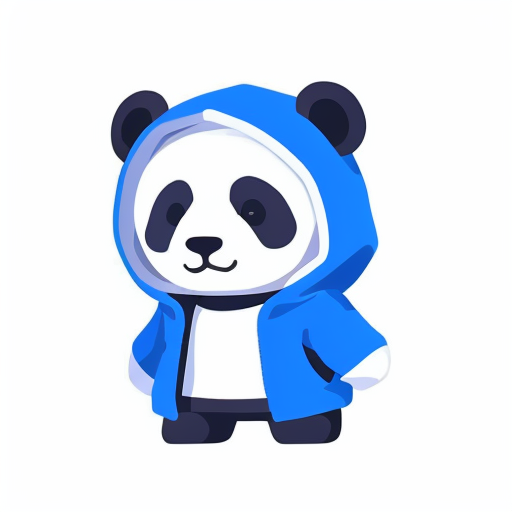
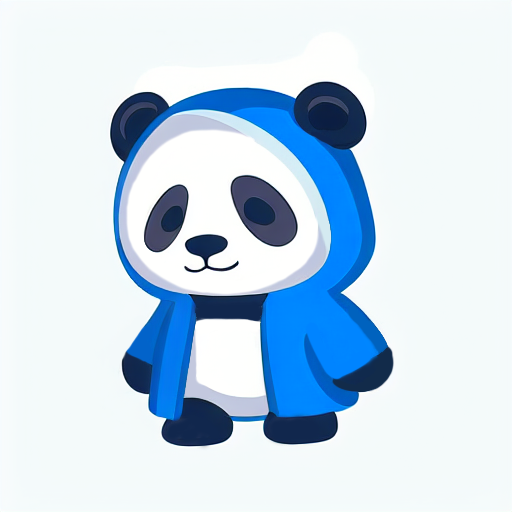
update about & 404 page

Changed region(s): [[0.1875, 0.1562, 0.7812, 0.875]]

diff --git a/source/about/index.md b/source/about/index.md
@@ -6,11 +6,48 @@ layout: "about"
 comments: false
 ---
 
-## 我是貓熊🐼
+{% cq %}
+「不要怕麻煩，害自己迷路了喔」  
+——迷宮飯 EP20
+{% endcq %}
 
-這裡會紀錄貓熊的生活大小事
+## 我是誰 🐼
 
-[Gmail](mailto:wu.messi.wu@gmail.com)
-[Github](https://github.com/moon-jam)
+<i class="fa-solid fa-paw"></i> 我的名字叫巫玟槿，念快一點就變成 Moon Jam 了  
+[<i class="fas fa-envelope"></i> Gmail](mailto:wu.messi.wu@gmail.com)  
+[<i class="fab fa-github"></i> Github](https://github.com/moon-jam)  
+[<i class="fab fa-instagram"></i> Instagram](https://www.instagram.com/mooooonjam/)
 
-<!--more-->
+## 我做些什麼
+
+- 程式語言：Python / C / C++ / C# / Java  
+- 資訊科學：演算法 / 資安 / 機器學習
+- 工業繪圖：Fusion 360 / Inventor  
+- 機器人製作：Arduino / FRC  
+- 運動：跑步 / 跳繩  
+- 投資：技術分析 (SMC)  
+- 其他：讀小說 / 看動畫 / 玩遊戲
+
+歡迎大家來跟我交朋友～
+
+## 做過的專案
+
+- 參與製作四台 FRC 機器人
+  ![由左至右分別為2022賽季、2022自辦模擬賽、2023賽季、2024賽季](https://i.imgur.com/OEXIRUA.png)
+- 線上跳繩競賽系統 [Github](https://github.com/moon-jam/Jump_rope)
+- Discord 遠端 WOL(Wake On Lan) 機器人 [Github](https://github.com/moon-jam/discord-bot-Remote-Wake-On-LAN)
+- Discord 猜拳機器人 [Github](https://github.com/moon-jam/discord-bot-Rock-Paper-Scissors)
+- Hexo renderer-pandoc 的 header-link-filter (原版的 Header link 迴紋針圖示會消失，這個 lua filter 會把它加回去) [Github](https://github.com/hexojs/hexo-renderer-pandoc)
+- 「新聞產銷履歷」的 Chrome 插件 [Github](https://github.com/moon-jam/News-Traceability) / [Chrome Web Store](https://chromewebstore.google.com/detail/%E6%96%B0%E8%81%9E%E7%94%A2%E9%8A%B7%E5%B1%A5%E6%AD%B7/kjgmnmealhmifefanoofmddipnjgngpk?hl=zh-TW&authuser=0)
+
+## 研習、活動參與
+
+- [2020小巨蛋體育表演會花式跳繩表演者](https://youtu.be/B3KTQrXk1RM)
+- 2022 大學與高中再探學習歷程檔案分享會暨論壇 - 講者
+- 112 年聽見新課綱 翻轉的聲音 - 跨域學習 - 講者
+- 2024 SITCON Camp 隊輔 (籌備中)  
+
+{% cq %}
+「那是一個只要你夠認真、夠相信，這個世界就會對你有所回應的時代」  
+——李家維，我的神鬼人生，P.79
+{% endcq %}

diff --git a/source/404/index.md b/source/404/index.md
@@ -4,15 +4,11 @@ comments: false
 permalink: /404.html
 ---
 
-## 這是一個不存在的頁面
-
-很抱歉，目前這個連結已經失效。
-
-若是由本網站其他文章中點擊連結過來，有可能是因本人疏失導致，可以先透過搜尋相關關鍵字找到您想要的文章，如果方便的話也麻煩請您在該網站底下留言，告訴我哪裡有問題，讓我的網站變得更好，非常抱歉造成您的不便。
-
-預計將在約 <span id="timeout">5</span> 秒後返回首頁。
-
-如果你想看文章，你可以 **[點這裡](/)** 返回首頁。
+<div style="text-align: center">
+  <h1 itemprop="name headline" class="post-title" style="font-size: 27pt; margin-bottom: 6pt;">404 Not Found！</h1>
+  本連結已失效，預計將在 <span id="timeout">5</span> 秒後返回 [首頁](/)
+  <img src="./images/404.png" style="width: 70%; text-align: center">
+</div>
 
 <script>
 let countTime = 5;
@@ -21,12 +17,21 @@ function count() {
   document.getElementById('timeout').textContent = countTime;
   countTime -= 1;
   if(countTime === 0){
-    location.href = '/'; // 記得改成自己網址 Url
+    location.href = '/'; 
   }
   setTimeout(() => {
     count();
   }, 1000);
 }
 
-count();
+window.onload = function() {
+  document.querySelectorAll('.post-header').forEach((element) => {
+    element.remove();
+  });
+  document.querySelectorAll('.post-block').forEach((element) => {
+    element.classList.remove('post-block');
+  });
+
+  count();
+}
 </script>
